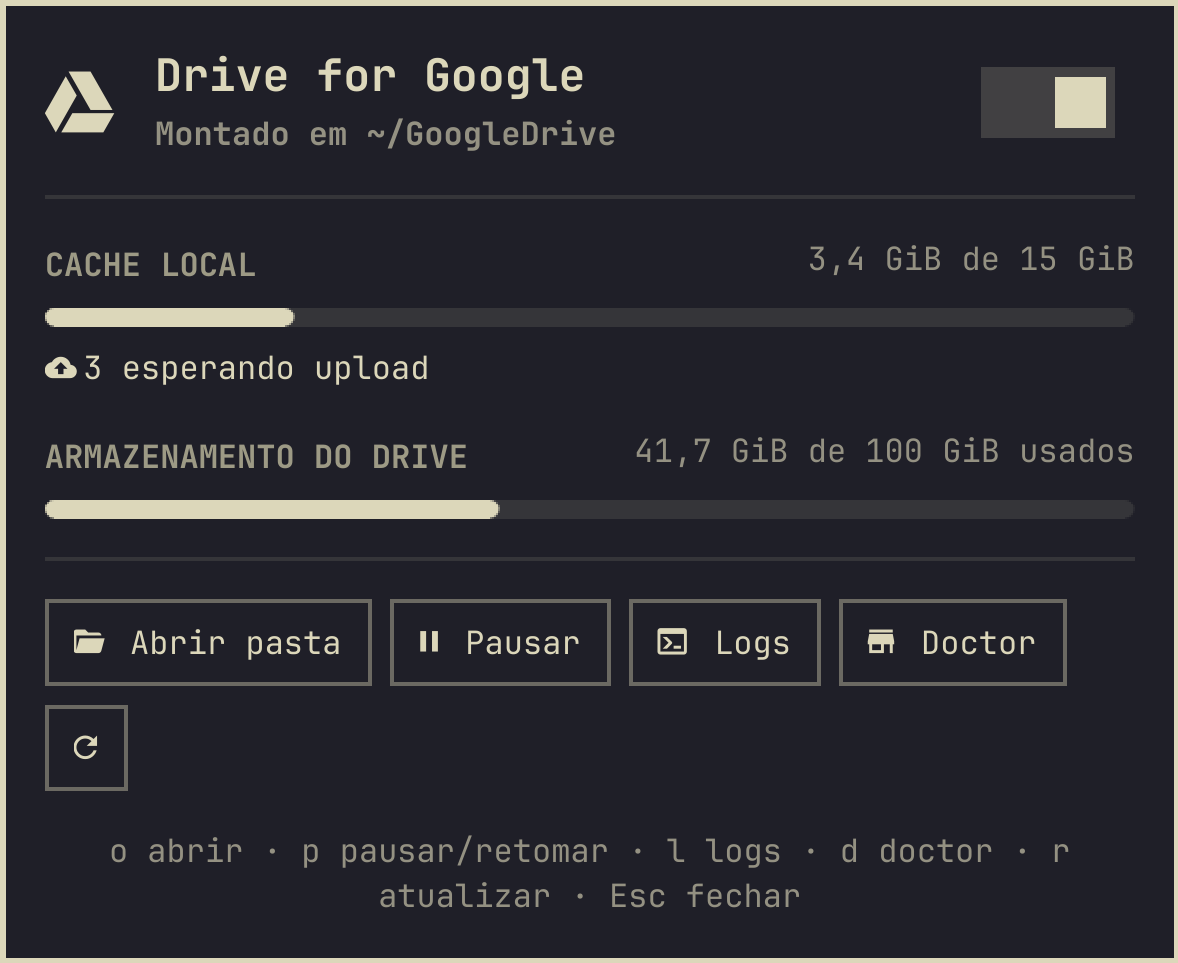
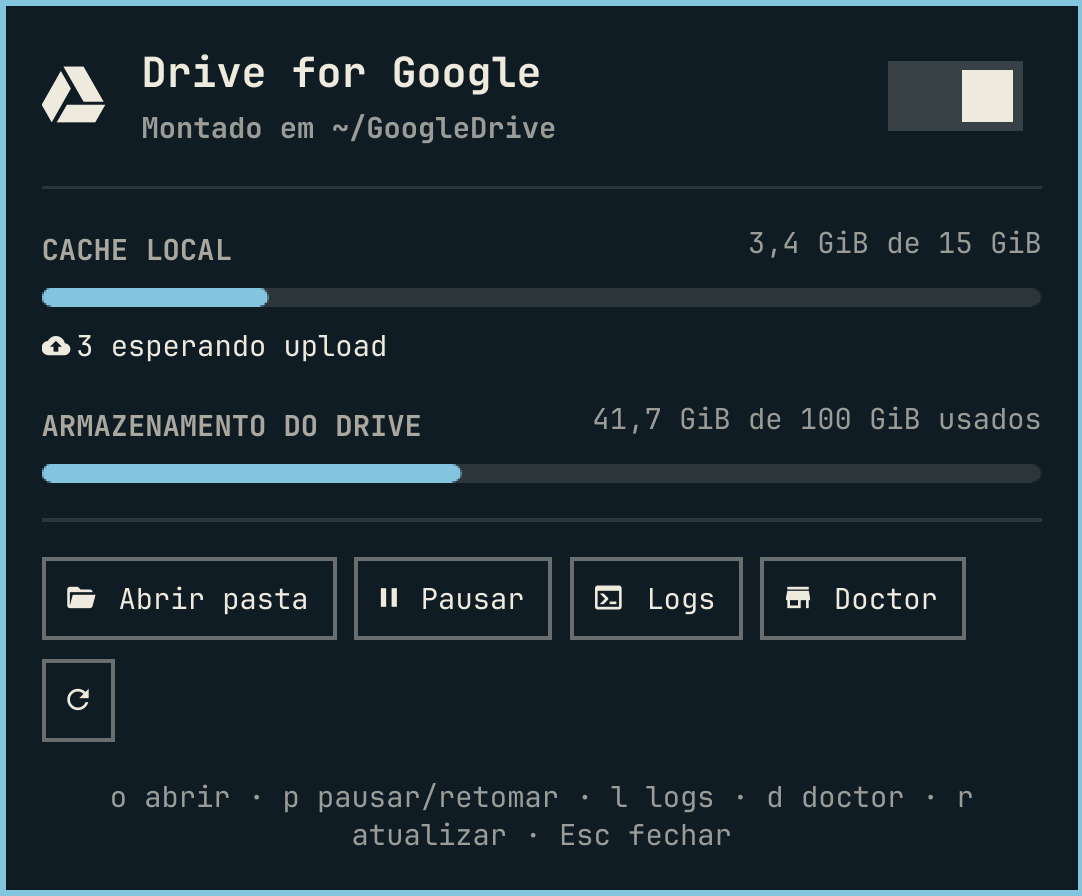
Release 0.3.0: survive Google's 7-day Testing logout
The own-client guide claimed Google's 7-day refresh-token limit for apps
in Testing mode no longer applied to Desktop clients. It does (any scope
beyond name/email/profile), so mounts died with invalid_grant a week
after setup while the bar showed "Starting..." and systemd retried every
10 s forever.

- docs: step 4 now says Publish app; FAQ entry for the 7-day logout;
  note on Google's Personal audience for new projects (EN + pt-BR).
- reconnect command: sign in again, verify, reset-failed, remount.
- status --json: authExpired; auto-restart counts as error.
- popup: plain-words message and a Reconnect button.
- doctor: explains the refused login and the Testing cause; checks the
  restart backoff and adds it as a drop-in with --fix (adopted units
  stay untouched).
- template: RestartSteps=8, RestartMaxDelaySec=1h.
- tests: dev/tests/auth.test.sh, authExpired in Model tests.
- screenshots regenerated (current theme, new error panel).

diff --git a/DriveView.qml b/DriveView.qml
@@ -171,10 +171,18 @@ Column {
       fontFamily: view.drive.fontFamily
       width: parent.width
     }
+    // A refused login gets plain words first; the raw rclone line stays below.
+    PlainText {
+      visible: view.drive.st.authExpired === true
+      width: parent.width
+      wrapMode: Text.WordWrap
+      elide: Text.ElideNone
+      text: view.drive.t("error.authExpired")
+    }
     PlainText {
       width: parent.width
       wrapMode: Text.WrapAnywhere
-      maximumLineCount: 4
+      maximumLineCount: view.drive.st.authExpired === true ? 2 : 4
       elide: Text.ElideRight
       text: Model.neutralizeMarkup(view.drive.st.lastError, 320)
       color: view.drive.dimColor
@@ -189,6 +197,13 @@ Column {
     width: parent.width
     spacing: Style.space(6)
 
+    ActionBtn {
+      visible: view.drive.st.authExpired === true
+      iconText: ""   // md-key
+      text: view.drive.t("action.reconnect")
+      tooltipText: view.drive.t("action.tooltip.reconnect")
+      onClicked: view.drive.openReconnect()
+    }
     ActionBtn {
       visible: !view.drive.configured
       iconText: ""   // md-cog

diff --git a/dev/MockDrive.qml b/dev/MockDrive.qml
@@ -27,7 +27,7 @@ Item {
       quota: { used: 9.2 * 1073741824, total: 15 * 1073741824, free: 5.8 * 1073741824 }
     },
     error: {
-      status: { state: "error", mounted: false, ownClient: true, mountpoint: "/home/user/GoogleDrive",
+      status: { state: "error", mounted: false, ownClient: true, authExpired: true, mountpoint: "/home/user/GoogleDrive",
                 cacheBytes: 1.1 * 1073741824, cacheMax: "15G", cacheMaxBytes: 15 * 1073741824, pendingUploads: 0,
                 lastError: "Failed to create file system for \"gdrive:\": couldn't find root directory ID: oauth2: \"invalid_grant\" \"Token has been expired or revoked.\"" },
       quota: null
@@ -85,6 +85,7 @@ Item {
   function openLogs() { console.log("mock: openLogs") }
   function openDoctor() { console.log("mock: openDoctor") }
   function openSetup() { console.log("mock: openSetup") }
+  function openReconnect() { console.log("mock: openReconnect") }
   function refresh() { console.log("mock: refresh") }
   function refreshQuota(force) { console.log("mock: refreshQuota") }
 }

diff --git a/Panel.qml b/Panel.qml
@@ -99,6 +99,11 @@ Panel {
     var cmd = "omarchy-launch-floating-terminal-with-presentation bash " + Model.shellQuote(root.cliPath) + " doctor"
     if (root.bar) root.bar.run(cmd); else Quickshell.execDetached(["bash", "-lc", cmd])
   }
+  function openReconnect() {
+    root.close()
+    var cmd = "omarchy-launch-floating-terminal-with-presentation bash " + Model.shellQuote(root.cliPath) + " reconnect"
+    if (root.bar) root.bar.run(cmd); else Quickshell.execDetached(["bash", "-lc", cmd])
+  }
   function openSetup() {
     root.close()
     var cmd = "omarchy-launch-floating-terminal-with-presentation bash " + Model.shellQuote(root.cliPath) + " setup"

diff --git a/dev/tests/Model.test.js b/dev/tests/Model.test.js
@@ -100,3 +100,8 @@ test("every CLI message key the shell scripts use exists in i18n/cli/en.json", (
   assert.ok(used.length > 50)
   for (const k of used) assert.ok(en.has(k), k)
 })
+
+test("parseStatus keeps authExpired, false by default", () => {
+  assert.equal(M.parseStatus('{"state":"error","authExpired":true}').authExpired, true)
+  assert.equal(M.parseStatus('{"state":"mounted"}').authExpired, false)
+})

diff --git a/Model.js b/Model.js
@@ -21,7 +21,8 @@ function emptyStatus() {
     cacheMax: "",
     cacheMaxBytes: 0,
     pendingUploads: 0,
-    lastError: ""
+    lastError: "",
+    authExpired: false
   }
 }
 

diff --git a/README.pt-BR.md b/README.pt-BR.md
@@ -16,7 +16,7 @@ Sem vínculo com o Google. Google Drive é uma marca registrada da Google LLC.
 - **`omarchy-gdrive setup`**: um comando guiado e idempotente. Instala o `rclone` se faltar (a única coisa que roda como root, e só depois que você disser sim), te guia para criar **o seu próprio cliente OAuth do Google**, faz o login, escreve uma unit de *usuário* do systemd com cache VFS bem configurado, monta `~/GoogleDrive` e adiciona a pasta na barra lateral do gerenciador de arquivos. Rode de novo quando quiser: ele só muda o que estiver diferente.
 - **Adota o que você já tem.** Já montou o Drive à mão com a sua própria `rclone-gdrive.service`? O `setup` detecta e oferece *adotar* sem mexer em nada (padrão) ou substituir pelo template.
 - **`omarchy-gdrive doctor`**: ferramentas, permissões da config, remote, `client_id` próprio ou compartilhado, rede, token, unit, mount, cache, uploads pendentes, favorito. Diz o que rodar para corrigir cada item. `--fix` aplica as correções seguras.
-- **`status`, `start`, `stop`, `restart`, `logs`, `quota`, `open`, `remove`**, e `status --json` para scripts.
+- **`status`, `start`, `stop`, `restart`, `reconnect`, `logs`, `quota`, `open`, `remove`**, e `status --json` para scripts.
 - **Widget de barra**: ícone de estado (montado / pausado / problema), contador de uploads pendentes, popup com uso do cache, cota do Drive, chave de pausar/retomar e botões de logs e doctor. Segue o tema do Omarchy ao vivo. O clique abre `~/GoogleDrive`.
 - **Nenhum segredo no lugar errado.** O `client_secret` vai direto para `~/.config/rclone/rclone.conf` (modo 600). Nunca passa pela linha de comando, nunca vai para o log e nunca aparece no widget. Veja [Privacidade e segurança](#privacidade-e-segurança).
 - **Inglês e português**, seguindo o idioma do Omarchy (com fallback para `$LANG`).
@@ -51,7 +51,7 @@ Não quer o widget? Clone o repositório em qualquer lugar e rode `bin/omarchy-g
 3. Cria (ou reaproveita) o remote `gdrive` do rclone. Se você baixou um `client_secret_*.json` do Google, ele encontra o arquivo em `~/Downloads` e pergunta se pode usar. Se não, explica [por que você quer o seu próprio cliente](docs/own-client-id.pt-BR.md) e deixa você colar o id e o secret, ou seguir por enquanto com o cliente compartilhado do rclone.
 4. Abre o navegador uma vez para a tela de consentimento do Google (`rclone config reconnect`).
 5. Escreve a unit a partir de [`templates/rclone-gdrive.service`](templates/rclone-gdrive.service):
-   `--vfs-cache-mode full`, cache limitado a 10 % do espaço livre no disco do cache (2–50 GiB), `--vfs-cache-max-age 72h`, `--dir-cache-time 72h`, `--poll-interval 1m`, `--umask 022`, `After=network-online.target`, reinício automático.
+   `--vfs-cache-mode full`, cache limitado a 10 % do espaço livre no disco do cache (2–50 GiB), `--vfs-cache-max-age 72h`, `--dir-cache-time 72h`, `--poll-interval 1m`, `--umask 022`, `After=network-online.target`, reinício automático com espera crescente (de 10 s até 1 h), para um mount com falha não tentar de novo a cada poucos segundos sem fim.
 6. `systemctl --user enable --now`, espera o mount, adiciona o favorito do GTK, `chmod 600 rclone.conf`.
 
 Tudo fica registrado em `~/.config/omarchy-gdrive/config` (remote, ponto de montagem, nome da unit, adotada ou gerenciada).
@@ -64,6 +64,8 @@ O rclone vem com um único `client_id` do Google, compartilhado por todos os usu
 
 Já tem o mount com o cliente compartilhado? `omarchy-gdrive setup --client` troca o cliente no remote existente, sem refazer nada.
 
+**Publique o app** (passo 4 do guia). Um app deixado no modo *Teste* do Google é desconectado a cada 7 dias e o mount para com `invalid_grant`. Se isso já aconteceu: publique o app e rode `omarchy-gdrive reconnect`.
+
 ## Uso
 
 ### Comandos
@@ -74,6 +76,7 @@ Já tem o mount com o cliente compartilhado? `omarchy-gdrive setup --client` tro
 | `status [--json]` | Uma tela: estado, serviço, remote, cache, uploads pendentes |
 | `doctor [--fix]` | Verificação completa, com o que rodar para corrigir; sai com código 1 só em falhas reais |
 | `start` / `stop` / `restart` | Monta, desmonta (avisa sobre uploads pendentes), remonta |
+| `reconnect` | Entra de novo no Google (o navegador abre uma vez) e remonta. É o conserto quando o log diz `invalid_grant`; o popup tem um botão **Reconectar** para isso |
 | `logs [-n N] [--no-follow]` | `journalctl --user -u rclone-gdrive -f` |
 | `quota [--json]` | Uso do Drive (`rclone about`) |
 | `open` | Abre o mount no gerenciador de arquivos |

diff --git a/README.md b/README.md
@@ -16,7 +16,7 @@ Not affiliated with Google. Google Drive is a trademark of Google LLC.
 - **`omarchy-gdrive setup`** — one guided, idempotent command. Installs `rclone` if missing (the only thing that ever runs as root, and only after you say yes), walks you through creating **your own Google OAuth client**, signs you in, writes a systemd *user* unit with sane VFS-cache defaults, mounts `~/GoogleDrive` and adds it to the file manager sidebar. Run it again any time; it only changes what differs.
 - **Adopts what you already have.** Mounted Drive by hand with your own `rclone-gdrive.service`? `setup` detects it and offers to *adopt* it untouched (default) or replace it with the template.
 - **`omarchy-gdrive doctor`** — tools, config permissions, remote, own vs. shared `client_id`, network, token, unit, mount, cache, pending uploads, bookmark. Says what to run to fix each thing. `--fix` applies the safe ones.
-- **`status`, `start`, `stop`, `restart`, `logs`, `quota`, `open`, `remove`** — and `status --json` for machines.
+- **`status`, `start`, `stop`, `restart`, `reconnect`, `logs`, `quota`, `open`, `remove`** — and `status --json` for machines.
 - **Bar widget** — state icon (mounted / paused / problem), pending-upload badge, popup with cache usage, Drive quota, pause/resume switch, logs and doctor buttons. Follows the Omarchy theme live. Click opens `~/GoogleDrive`.
 - **No secrets in the wrong place.** The `client_secret` is written straight into `~/.config/rclone/rclone.conf` (mode 600), never passed on a command line, never logged, never shown in the widget. See [Privacy and security](#privacy-and-security).
 - **English and Portuguese**, following the Omarchy language setting (falls back to `$LANG`).
@@ -51,7 +51,7 @@ Don't want the widget? Clone the repo anywhere and run `bin/omarchy-gdrive setup
 3. Creates (or reuses) the rclone remote `gdrive`. If you downloaded a `client_secret_*.json` from Google it finds it in `~/Downloads` and asks to use it. Otherwise it explains [why you want your own client](docs/own-client-id.md) and lets you paste the id and secret, or continue with rclone's shared client for now.
 4. Opens the browser once for Google's consent screen (`rclone config reconnect`).
 5. Writes the unit from [`templates/rclone-gdrive.service`](templates/rclone-gdrive.service):
-   `--vfs-cache-mode full`, cache capped at 10 % of the free space on the cache disk (2–50 GiB), `--vfs-cache-max-age 72h`, `--dir-cache-time 72h`, `--poll-interval 1m`, `--umask 022`, `After=network-online.target`, auto-restart.
+   `--vfs-cache-mode full`, cache capped at 10 % of the free space on the cache disk (2–50 GiB), `--vfs-cache-max-age 72h`, `--dir-cache-time 72h`, `--poll-interval 1m`, `--umask 022`, `After=network-online.target`, auto-restart with a growing wait (10 s up to 1 h) so a failing mount does not retry every few seconds forever.
 6. `systemctl --user enable --now`, waits for the mount, adds the GTK bookmark, `chmod 600 rclone.conf`.
 
 Everything is recorded in `~/.config/omarchy-gdrive/config` (remote, mount point, unit name, adopted or managed).
@@ -64,6 +64,8 @@ rclone ships with one shared Google `client_id` used by every rclone user on Ear
 
 Already mounted with the shared client? `omarchy-gdrive setup --client` upgrades the existing remote in place.
 
+**Publish the app** (step 4 of the guide). An app left in Google's *Testing* mode is signed out every 7 days and the mount stops with `invalid_grant`. If that already happened: publish it, then run `omarchy-gdrive reconnect`.
+
 ## Use
 
 ### Commands
@@ -74,6 +76,7 @@ Already mounted with the shared client? `omarchy-gdrive setup --client` upgrades
 | `status [--json]` | One screen: state, service, remote, cache, pending uploads |
 | `doctor [--fix]` | Full health check with fixes to run; exit 1 only on real failures |
 | `start` / `stop` / `restart` | Mount, unmount (warns about pending uploads), remount |
+| `reconnect` | Sign in to Google again (browser opens once) and remount. The fix when the log says `invalid_grant`; the popup has a **Reconnect** button for it |
 | `logs [-n N] [--no-follow]` | `journalctl --user -u rclone-gdrive -f` |
 | `quota [--json]` | Drive usage (`rclone about`) |
 | `open` | Open the mount in the file manager |

diff --git a/docs/own-client-id.pt-BR.md b/docs/own-client-id.pt-BR.md
@@ -67,20 +67,29 @@ mesmas telas existem em todos os idiomas.
 
 <!-- screenshot: img/03-consent-screen.png — Tela de consentimento -->
 
-### 4. Adicionar você mesmo como usuário de teste
+### 4. Publicar o app
 
-O app fica em modo *Teste*, que é exatamente o que você quer: só as contas
-listadas aqui conseguem usá-lo, e o Google não pede verificação nenhuma.
+Um app novo começa em modo *Teste*. **Não deixe ele assim:** o Google encerra
+todo login de um app em Teste depois de **7 dias**, qualquer que seja o tipo
+de cliente, e aí o mount para com `invalid_grant`. Publicar tira esse limite.
 
 1. No menu da esquerda, abra **Público-alvo** (*Audience*).
-2. Em **Usuários de teste**, clique em **+ Adicionar usuários**, digite seu
-   e-mail do Google e **Salvar**.
+2. Em **Status de publicação: Teste**, clique em **Publicar app** e depois em
+   **Confirmar**.
 
-<!-- screenshot: img/04-test-users.png — Usuários de teste -->
+<!-- screenshot: img/04-publish-app.png — Publicar app -->
 
-> Tokens de apps em modo Teste expiravam depois de 7 dias. Esse limite não se
-> aplica mais ao tipo *App para computador* usado abaixo, e o rclone renova o
-> token sozinho em segundo plano.
+Publicar não lista o seu app em lugar nenhum nem abre ele para estranhos.
+Ninguém usa sem o seu `client_secret`, e o Google não faz revisão: um app não
+verificado só mostra um aviso na tela de consentimento (passo 6) e tem limite
+de 100 usuários, muito mais do que uma pessoa precisa.
+
+> **Começando do zero?** O Google também oferece o público *Pessoal*
+> (<https://console.cloud.google.com/auth/overview/personal>): só a conta que
+> criou o app consegue entrar, o login não vence em 7 dias e não aparece aviso.
+> Ele precisa ser escolhido na criação do projeto e não pode ser trocado
+> depois, por isso os passos aqui usam *Externo* + **Publicar app**, que
+> funciona também para um app que você já tem.
 
 ### 5. Criar o cliente OAuth
 
@@ -140,6 +149,20 @@ separado e ganha o seu próprio token.
 **Perdi o JSON.** No console, abra **Clientes**, clique no seu cliente e use
 **Fazer o download do JSON** de novo, ou copie id e secret daquela página e
 escolha *Colar client_id e client_secret à mão* no `omarchy-gdrive setup --client`.
+
+### Se o Google desconectar você a cada 7 dias
+
+O mount para, a barra mostra um problema e o log diz `invalid_grant: maybe
+token expired?`. O seu app ainda está em modo *Teste* (passo 4). Conserte uma
+vez:
+
+1. <https://console.cloud.google.com/auth/audience> → **Publicar app** →
+   **Confirmar**.
+2. `omarchy-gdrive reconnect` (ou **Reconectar** no popup da barra): o
+   navegador abre uma vez, você entra, e o mount volta.
+
+Seus arquivos não são afetados: eles continuam no Google Drive, e o que ainda
+esperava para subir no cache local sobe depois do reconnect.
 
 **Quero revogar tudo.** <https://myaccount.google.com/permissions> lista o
 app; remover ali invalida todos os tokens. Apagar o projeto no Cloud Console

diff --git a/docs/own-client-id.md b/docs/own-client-id.md
@@ -67,19 +67,28 @@ same screens exist in every language.
 
 <!-- screenshot: img/03-consent-screen.png — Consent screen -->
 
-### 4. Add yourself as a test user
+### 4. Publish the app
 
-The app stays in *Testing* mode, which is exactly what you want: nobody but
-the accounts you list here can use it, and Google asks for no verification.
+A new app starts in *Testing* mode. **Do not leave it there:** Google ends
+every login of a Testing app after **7 days**, whatever the client type, and
+the mount then stops with `invalid_grant`. Publishing removes that limit.
 
 1. In the left menu open **Audience**.
-2. Under **Test users** click **+ Add users**, type your Google e-mail, **Save**.
+2. Under **Publishing status: Testing** click **Publish app**, then **Confirm**.
 
-<!-- screenshot: img/04-test-users.png — Test users -->
+<!-- screenshot: img/04-publish-app.png — Publish app -->
 
-> Tokens of apps in Testing mode used to expire after 7 days. That limit no
-> longer applies to the *Desktop app* client type used below, and rclone
-> refreshes the token automatically in the background.
+Publishing does not list your app anywhere or open it to strangers. Nobody
+can use it without your `client_secret`, and Google does not review it: an
+unverified app only shows a warning on the consent screen (step 6) and is
+capped at 100 users, far more than one person needs.
+
+> **Starting from scratch?** Google also offers a *Personal* audience
+> (<https://console.cloud.google.com/auth/overview/personal>): only the account
+> that created it can sign in, logins do not expire after 7 days and there is
+> no warning screen. It has to be chosen when the project is created and
+> cannot be changed later, so the steps here use *External* + **Publish app**,
+> which works for an app you already have.
 
 ### 5. Create the OAuth client
 
@@ -138,6 +147,19 @@ and gets its own token.
 **I lost the JSON.** In the console open **Clients**, click your client, and
 use **Download JSON** again, or copy the id and secret from that page and pick
 *Paste client_id and client_secret by hand* in `omarchy-gdrive setup --client`.
+
+### If Google signs you out every 7 days
+
+The mount stops, the bar shows a problem and the log says `invalid_grant:
+maybe token expired?`. Your app is still in *Testing* mode (step 4). Fix it
+once:
+
+1. <https://console.cloud.google.com/auth/audience> → **Publish app** → **Confirm**.
+2. `omarchy-gdrive reconnect` (or **Reconnect** in the bar popup): the browser
+   opens once, you sign in, and the mount comes back.
+
+Your files are not affected: they stay on Google Drive, and uploads still
+waiting in the local cache go up after the reconnect.
 
 **I want to revoke everything.** <https://myaccount.google.com/permissions>
 lists the app; removing it invalidates every token. Deleting the project in

diff --git a/CHANGELOG.md b/CHANGELOG.md
@@ -3,6 +3,32 @@
 All notable changes to this plugin. Versions follow the `version` field in
 `manifest.json` (the CLI's `--version` reports the same number).
 
+## 0.3.0 (2026-11-20)
+
+### Fixed
+- The guide said Google's 7-day login limit for apps in *Testing* mode no longer
+  applied to Desktop clients. It does: every Testing app with the Drive scope is
+  signed out after 7 days and the mount stops with `invalid_grant`. Step 4 of
+  [docs/own-client-id.md](docs/own-client-id.md) now says to **Publish app**, and
+  a new FAQ entry explains what to do when it already happened.
+- A mount that kept failing was shown as "Starting…" forever. Waiting between two
+  failed starts (`auto-restart`) is now reported as a problem.
+
+### Added
+- `omarchy-gdrive reconnect`: sign in to Google again (the browser opens once),
+  verify the token, clear the failure and remount.
+- When Google refused the login, `status --json` carries `authExpired: true` and
+  the popup says so in plain words, with a **Reconnect** button.
+- `doctor` explains a refused login (and the 7-day Testing cause, for your own
+  client) and points to `reconnect`.
+
+### Changed
+- Restart backoff: failed starts are retried with a wait that grows from 10 s to
+  1 h (`RestartSteps=8`, `RestartMaxDelaySec=1h`) instead of every 10 s forever.
+  New units from the template carry it; for an adopted unit `doctor --fix` adds it
+  as a drop-in (`rclone-gdrive.service.d/50-omarchy-backoff.conf`) and leaves your
+  own file untouched.
+
 ## 0.2.0 (2026-11-10)
 
 ### Changed
